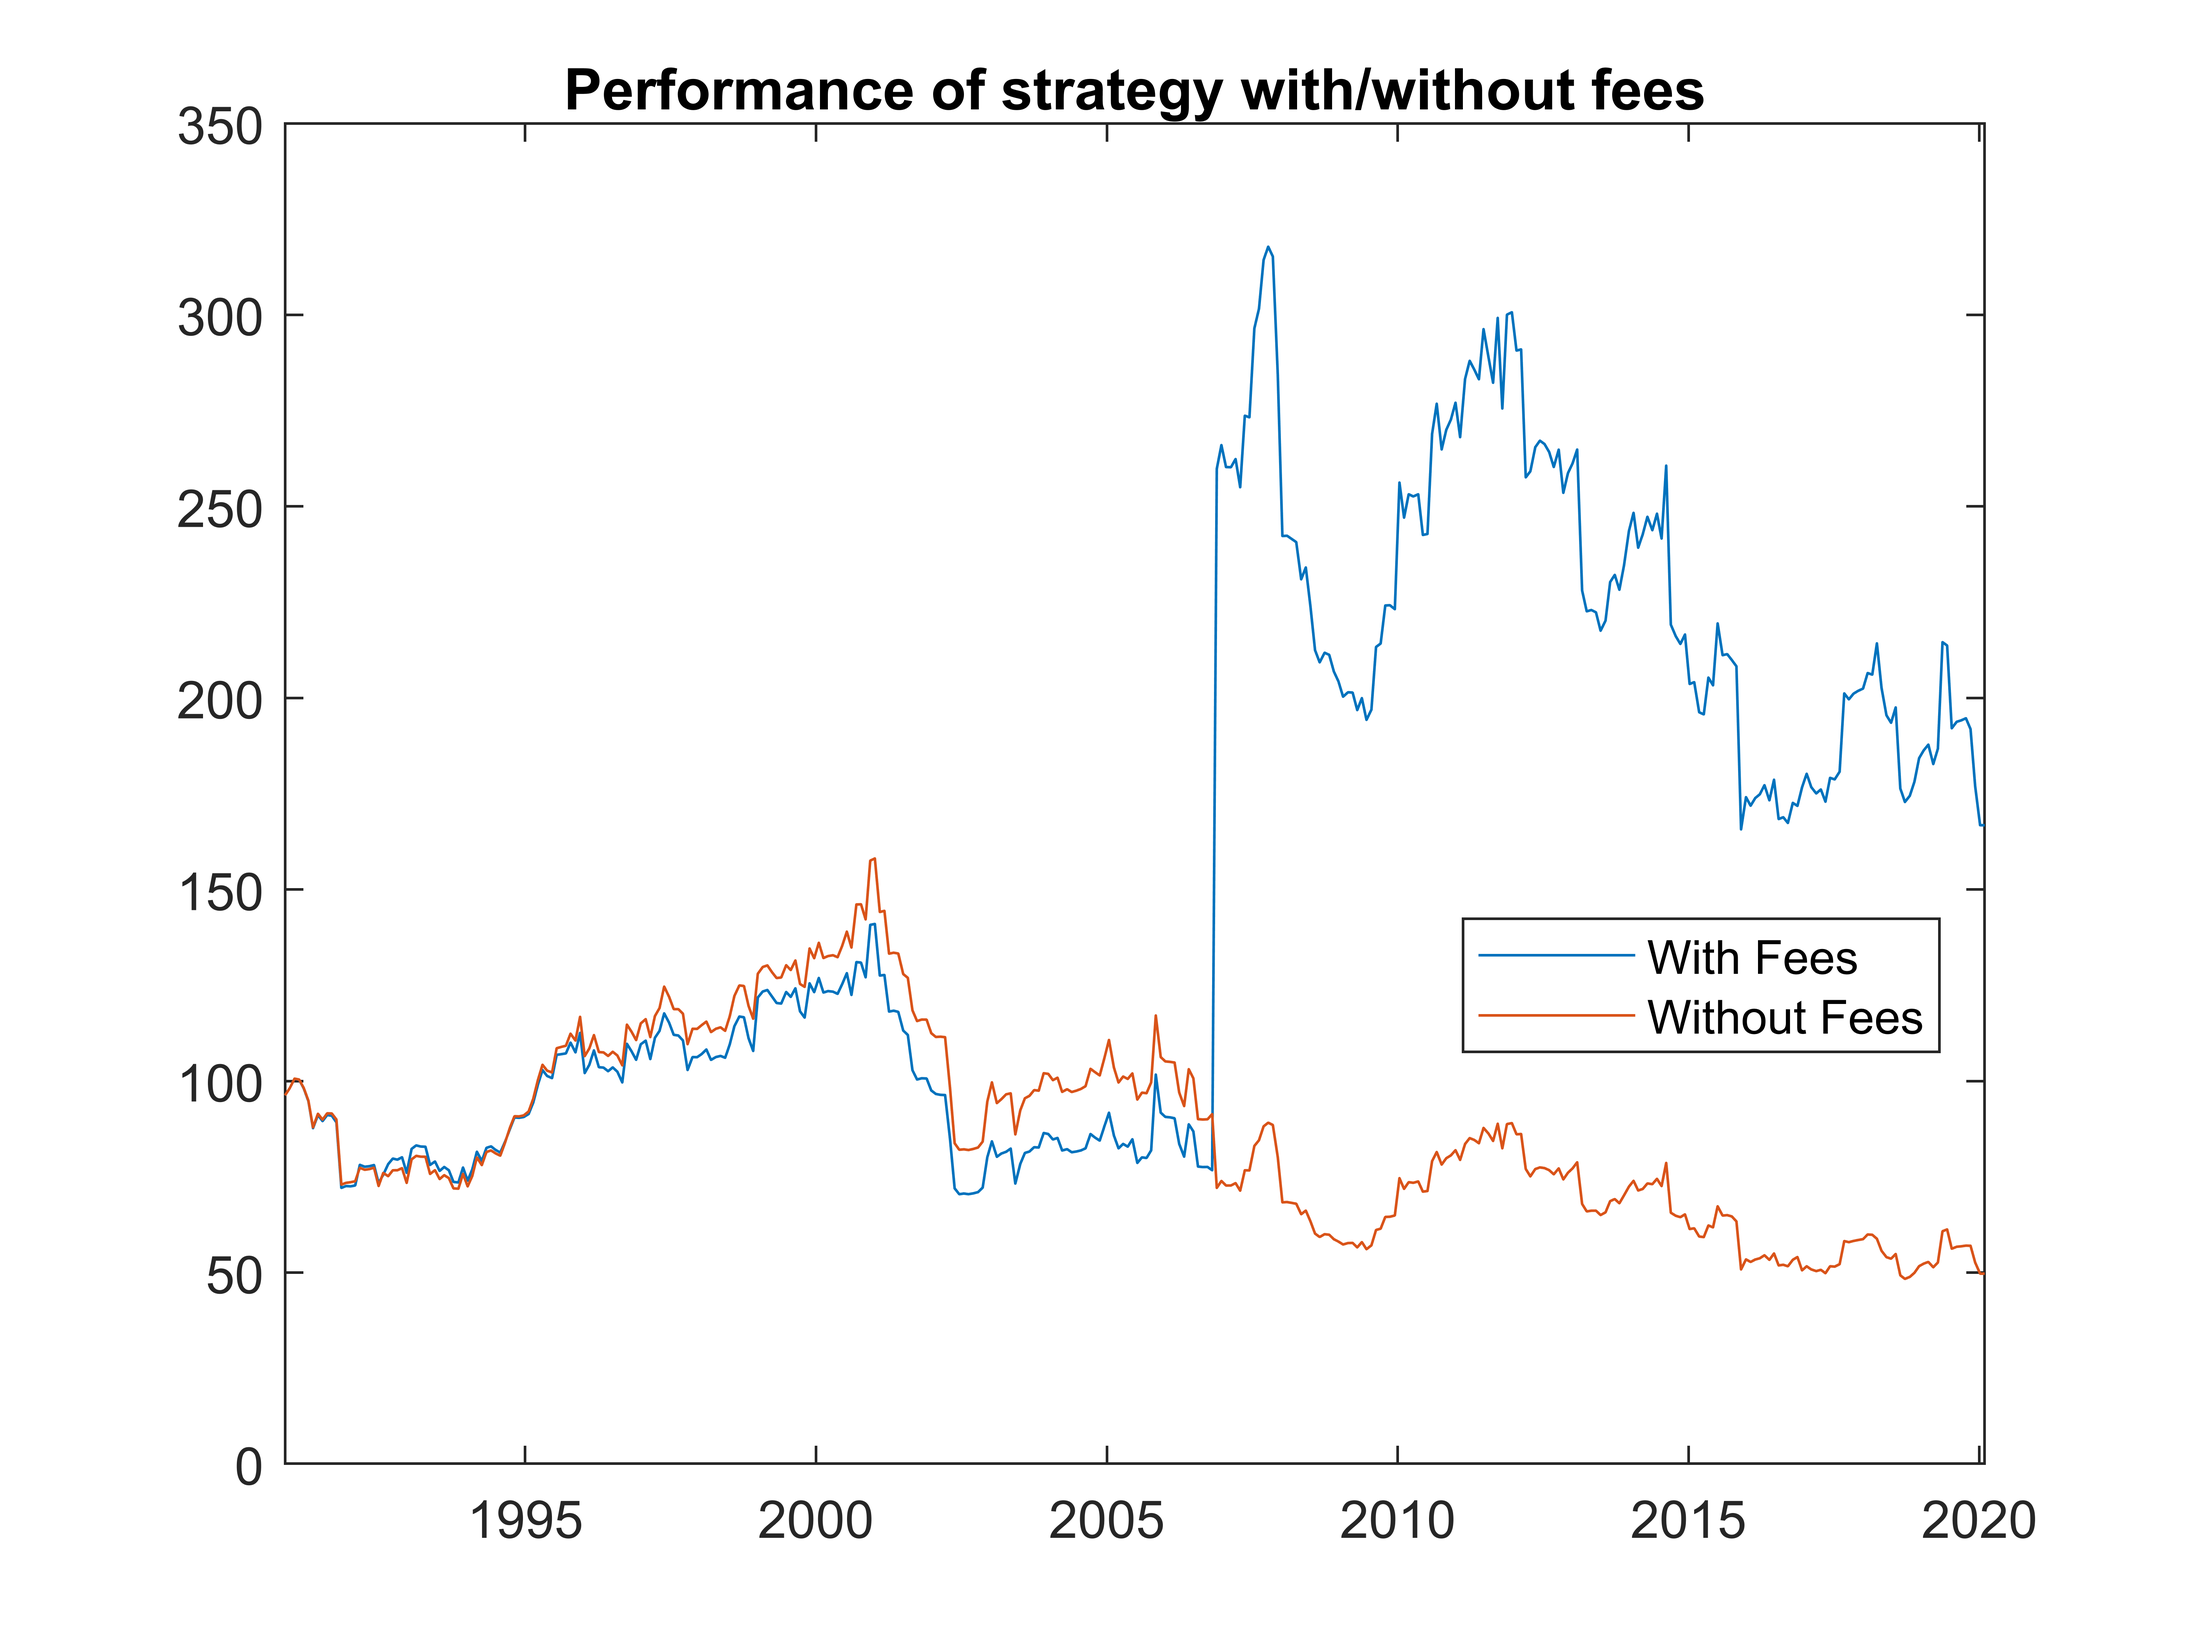
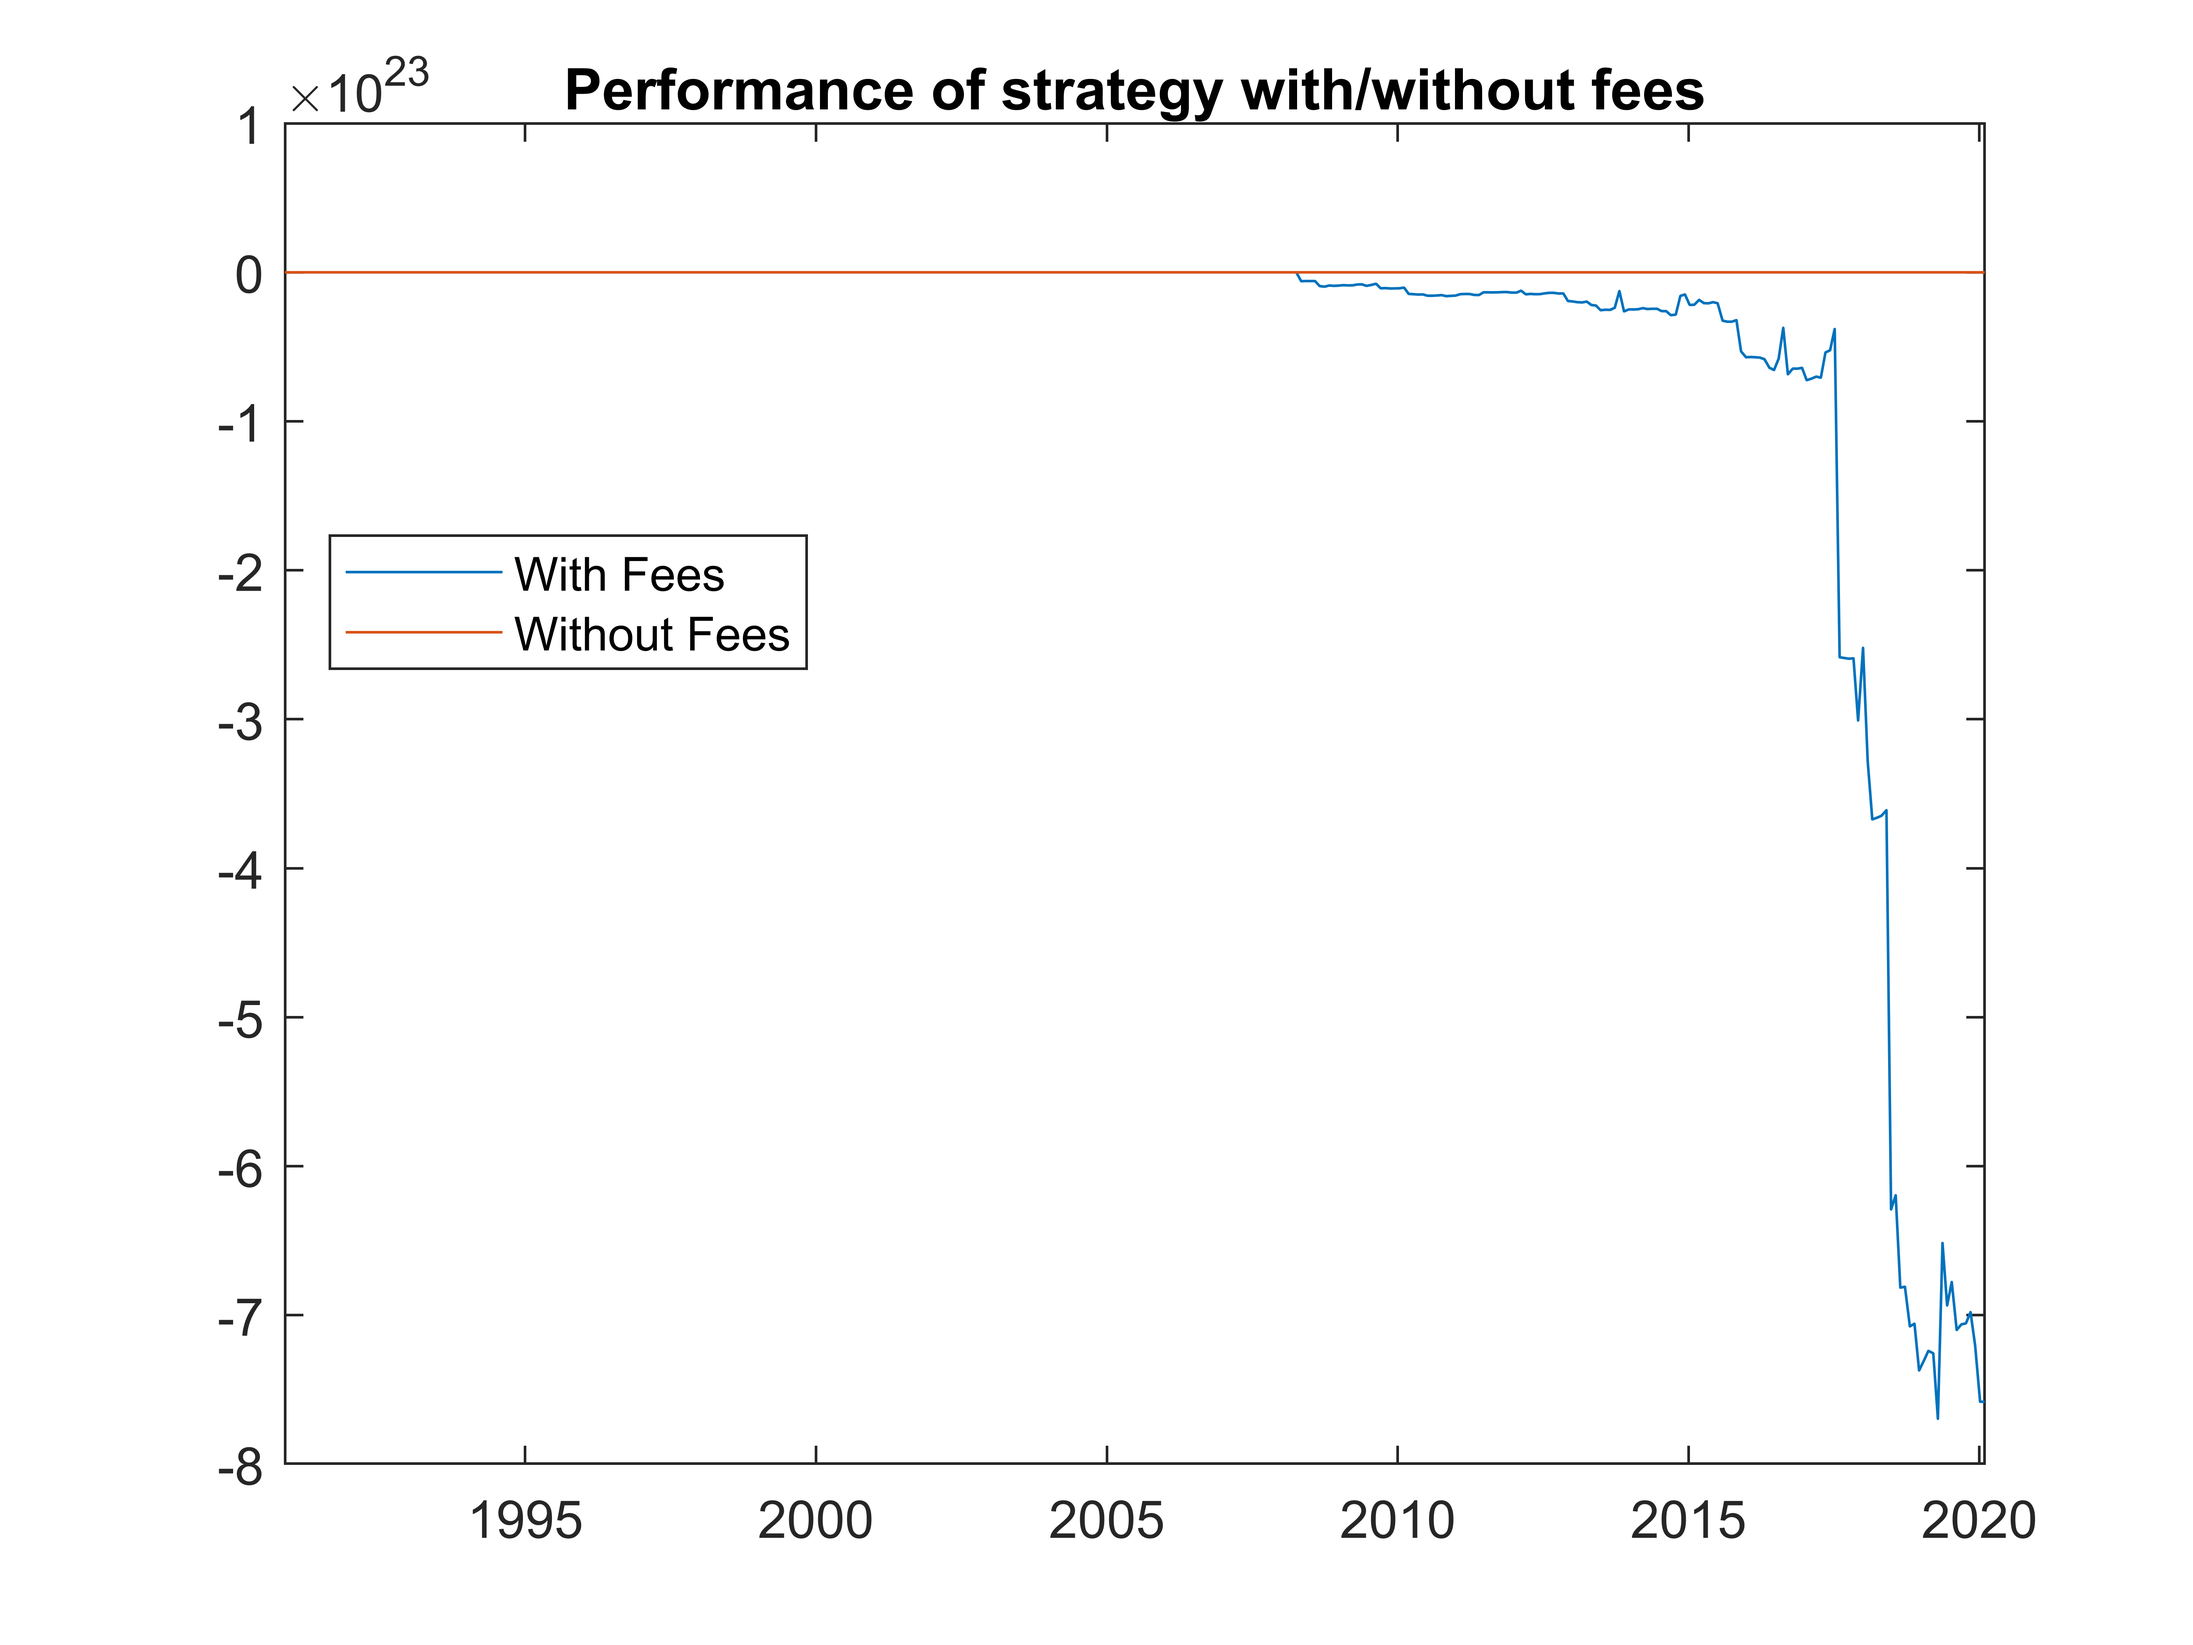
again

diff --git a/FunctionsAndScripts/BaltasRiskParity/TurnoverConstraint/RiskParityOpti_TurnoverConstraint.m b/FunctionsAndScripts/BaltasRiskParity/TurnoverConstraint/RiskParityOpti_TurnoverConstraint.m
@@ -56,41 +56,29 @@ position = 1; %Position Index
 disp('Optimisation is starting !')
 
     for i = LengthSignal+1:LengthMonth:length(Returns) 
-        
-        if position == round(round((length(Returns)-LengthSignal)/LengthMonth,0)/10,0)
-            disp('10% Done')
-        elseif position == round(round((length(Returns)-LengthSignal)/LengthMonth,0)/3,0)
-            disp('30% Done')
-        elseif position == round(round((length(Returns)-LengthSignal)/LengthMonth,0)/2,0)
-            disp('50% Done')
-        elseif position == round(round((length(Returns)-LengthSignal)/LengthMonth,0)*3/4,0)
-            disp('75% Done')
-        else %do nothing
-        end% Just print the position to know where we are withing the optimisation
+
         
         % Finding the available asset to perform logical indexing on the
         % optimization
         index = Weights(position,:)~=0;  % Vector of 1 if the initial weights is not equal to zero and 0 otherwise. 
-                                         % So there is no need to perform
-                                         % to check wheter the assets are
-                                         % available from LengthSignal days from now
-                                         % (Already done).
-       
-                                         
+                                  
         % Setting the objective function (anonyme function)
-        fun = @(x)sum(log(abs(x))); %Function going over the available assezs (index == 1)
+        fun = @(x) (-1)*sum(log(abs(x))); %Function going over the available assezs (index == 1)
         
         % Finding the LengthVol days covariance matrix
         CovMat = 252*cov(Returns(i-LengthVol+1:i,index==1)); %Covariance of the available assets (index == 1)
         
         % Setting optimisation bounds on weights ->  can take leverage on an
         % asset
+       
         lb = ones(1,length(CovMat))*-1; 
         ub = ones(1,length(CovMat))*1; 
         
         % Setting linear constraint (Sum of weights = 100%)
-        Aeq = ones(1,length(CovMat)); 
-        beq = 1; 
+        %Aeq = ones(1,length(CovMat)); 
+        %beq = 1; 
+        Aeq = [];
+        beq = [];
         
         % Setting options
         options = optimoptions('fmincon','Display','off');

diff --git a/FunctionsAndScripts/RiskParity/RiskParityOpti.m b/FunctionsAndScripts/RiskParity/RiskParityOpti.m
@@ -57,28 +57,12 @@ disp('Optimisation is starting !')
 
     for i = LengthSignal+1:LengthMonth:length(Returns) 
         
-        if position == round(round((length(Returns)-LengthSignal)/LengthMonth,0)/10,0)
-            disp('10% Done')
-        elseif position == round(round((length(Returns)-LengthSignal)/LengthMonth,0)/3,0)
-            disp('30% Done')
-        elseif position == round(round((length(Returns)-LengthSignal)/LengthMonth,0)/2,0)
-            disp('50% Done')
-        elseif position == round(round((length(Returns)-LengthSignal)/LengthMonth,0)*3/4,0)
-            disp('75% Done')
-        else %do nothing
-        end% Just print the position to know where we are withing the optimisation
-        
         % Finding the available asset to perform logical indexing on the
         % optimization
         index = Weights(position,:)~=0;  % Vector of 1 if the initial weights is not equal to zero and 0 otherwise. 
-                                         % So there is no need to perform
-                                         % to check wheter the assets are
-                                         % available from LengthSignal days from now
-                                         % (Already done).
-       
-                                         
+                                 
         % Setting the objective function (anonyme function)
-        fun = @(x)sum(log(abs(x))); %Function going over the available assezs (index == 1)
+        fun = @(x) (-1)*sum(log(abs(x))); %Function going over the available assezs (index == 1)
         
         % Finding the LengthVol days covariance matrix
         CovMat = 252*cov(Returns(i-LengthVol+1:i,index==1)); %Covariance of the available assets (index == 1)
@@ -87,11 +71,13 @@ disp('Optimisation is starting !')
         % asset
         lb = ones(1,length(CovMat))*-1; 
         ub = ones(1,length(CovMat))*1; 
-        
+       
         % Setting linear constraint (Sum of weights = 100%)
-        Aeq = ones(1,length(CovMat)); 
-        beq = 1; 
-    
+        %Aeq = ones(1,length(CovMat)); 
+        %beq = 1; 
+        Aeq = [];
+        beq = [];
+        
         % Setting options
         options = optimoptions('fmincon','Display','off');
         

diff --git a/Output/Stat_VPRP.tex b/Output/Stat_VPRP.tex
@@ -2,13 +2,13 @@
 \begin{tabular}{lll}
 & TFVPLS & TFRPLS \\ 
 \hline 
-Average Monthly Turnover % & 10.0595 & 210.4677 \\ 
-Annualized Mean & 0.059103 & -0.022772 \\ 
-Annualized Volatility & 0.11684 & 0.16036 \\ 
-Sharpe Ratio & 1.4558 & -0.70793 \\ 
-Calmar Ratio & 0.23636 & -0.032803 \\ 
-Kurtosis & 3.7018 & 7.138 \\ 
-Skewness & 0.29347 & -0.58804 \\ 
-Maximum DrawDown & 0.25006 & 0.69419 \\ 
+Average Monthly Turnover % & 10.0779 & 7045.3496 \\ 
+Annualized Mean & 0.059103 & 0.16988 \\ 
+Annualized Volatility & 0.11684 & 4.9086 \\ 
+Sharpe Ratio & 1.4558 & 0.11283 \\ 
+Calmar Ratio & 0.23636 & 0.023424 \\ 
+Kurtosis & 3.7018 & 178.1753 \\ 
+Skewness & 0.29347 & 1.2618 \\ 
+Maximum DrawDown & 0.25006 & 7.2525 \\ 
 \hline 
 \end{tabular}}

diff --git a/FunctionsAndScripts/GeneralCode/PortfolioStatistics/turnover.m b/FunctionsAndScripts/GeneralCode/PortfolioStatistics/turnover.m
@@ -9,8 +9,8 @@ Turnover = zeros(length(Weights),1);
 
     for i=2:N-1
         for t=1:T
-            sum = sum + abs(Weights(i,t)-(1+Returns(i,t))*Weights(i-1,t))/...
-                ((1+Returns(i,:))*Weights(i,:)');
+            sum = sum + abs(Weights(i,t)-(1+Returns(i,t))*Weights(i-1,t)/...
+                ((1+Returns(i,:))*Weights(i,:)'));
         end
         
         %Turnover at time i in %

diff --git a/Output/LOLS.tex b/Output/LOLS.tex
@@ -2,7 +2,7 @@
 \begin{tabular}{lll}
 & TFVPLS & TFVPLO \\ 
 \hline 
-Average Monthly Turnover % & 10.0595 & 10.0595 \\ 
+Average Monthly Turnover % & 10.0779 & 10.0779 \\ 
 Annualized Mean & 0.059103 & 0.073458 \\ 
 Annualized Volatility & 0.11684 & 0.12671 \\ 
 Sharpe Ratio & 1.4558 & 1.7349 \\ 
